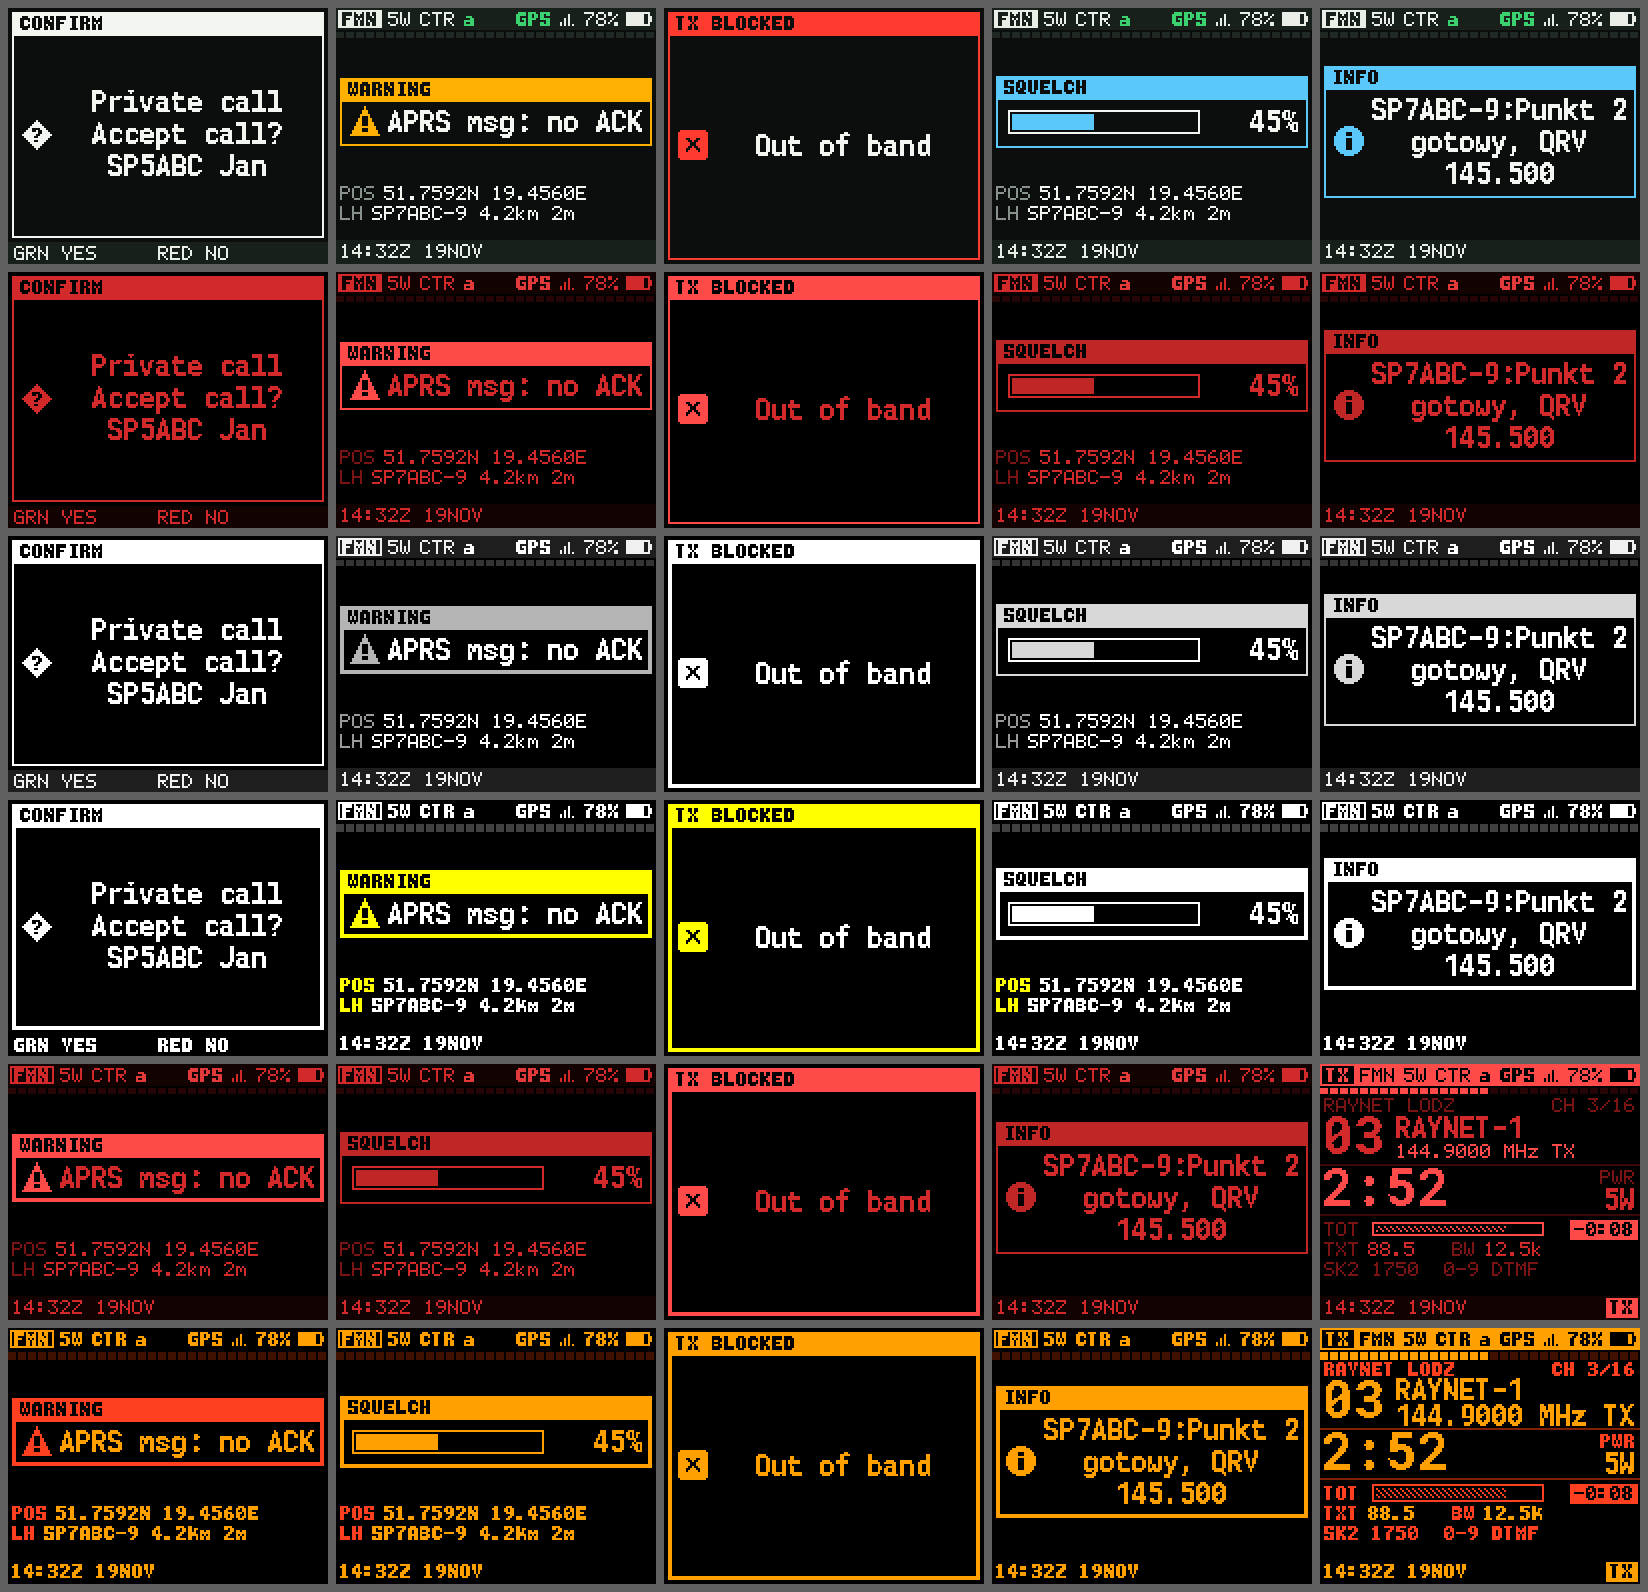
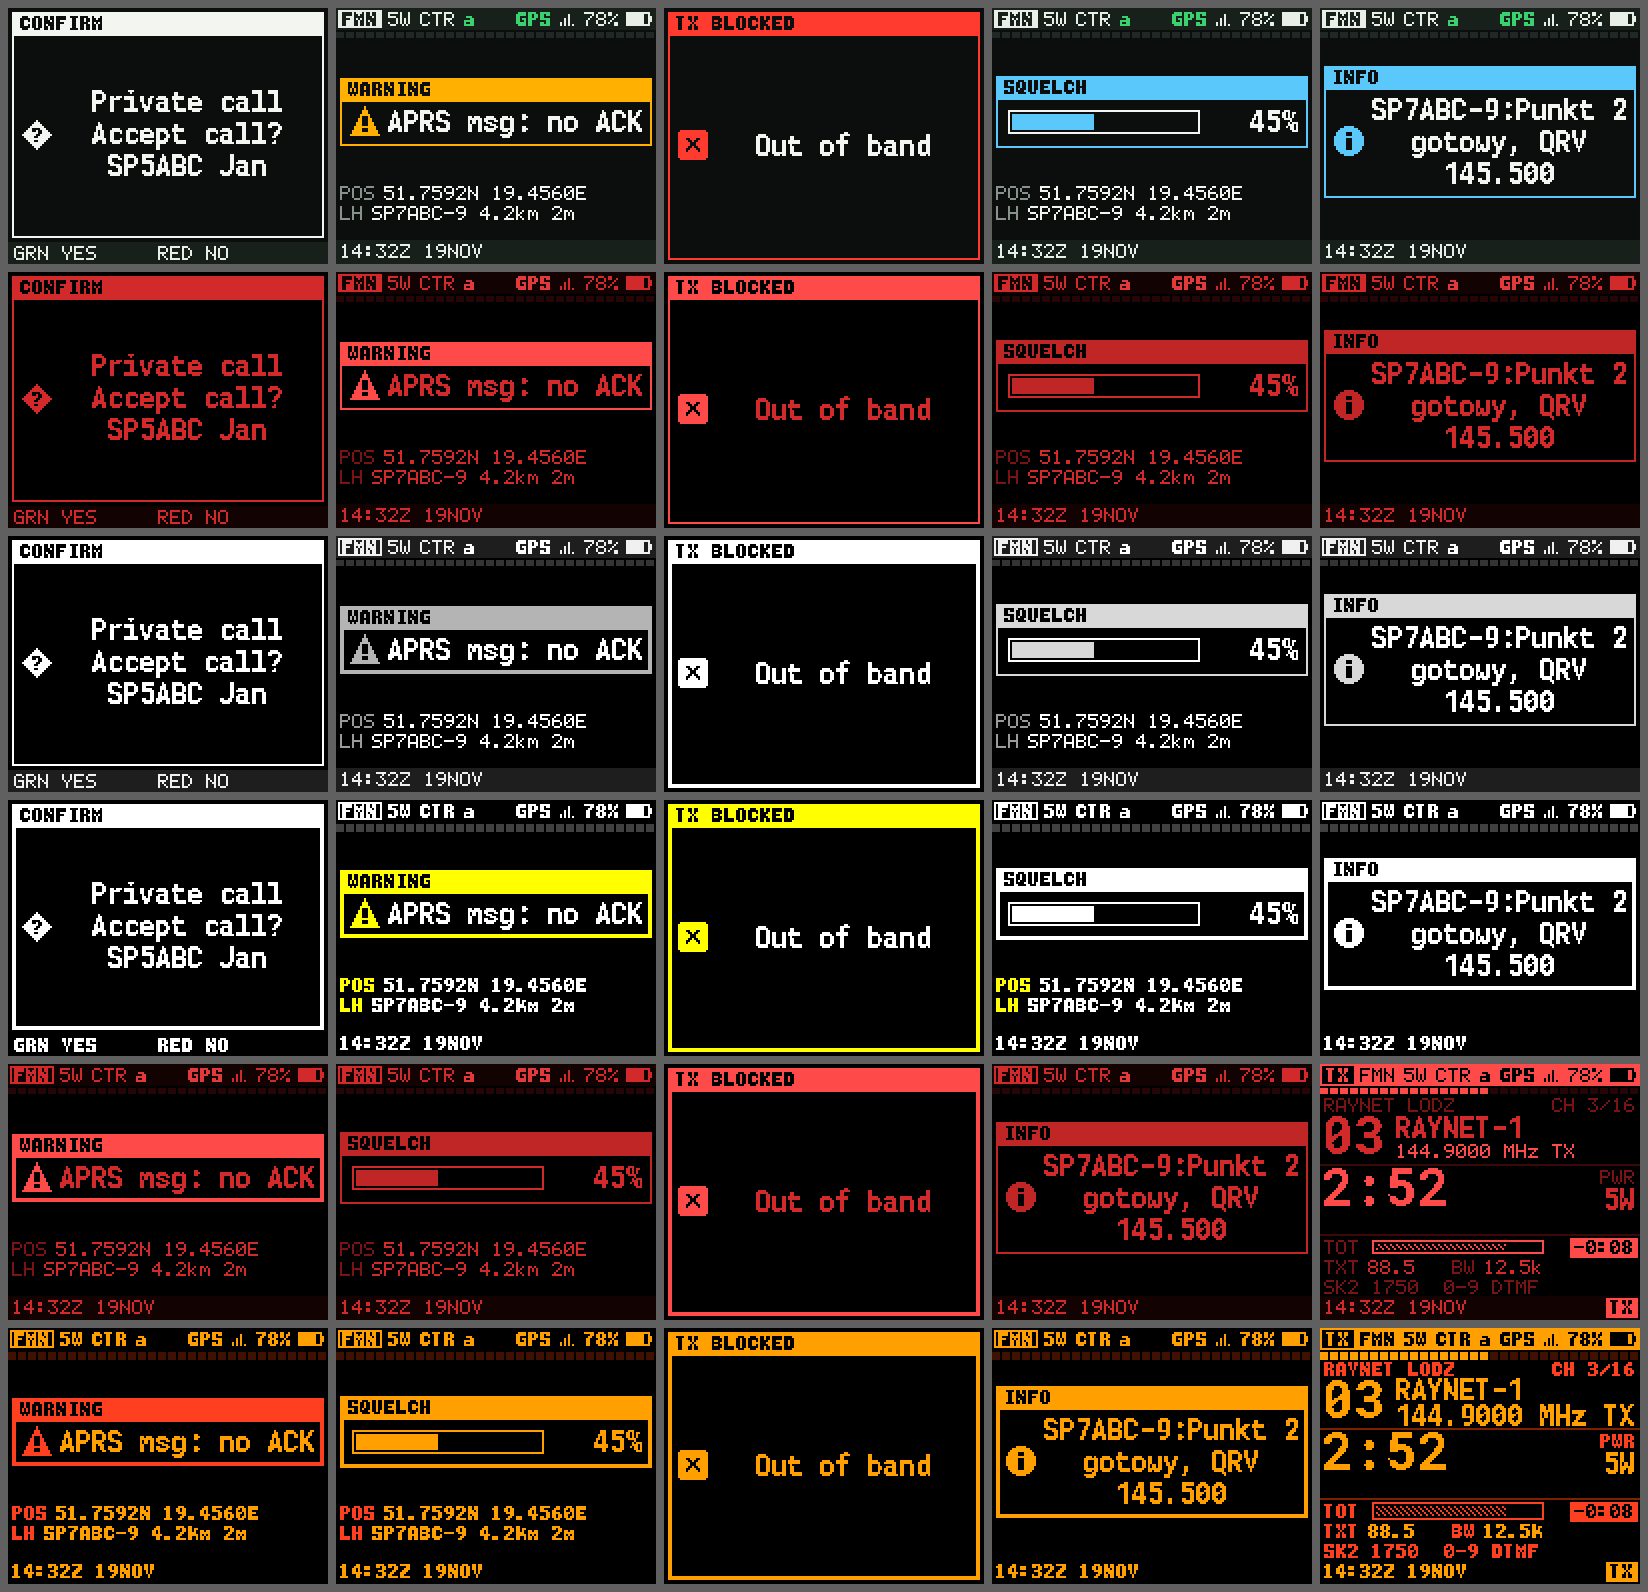
refactor: support expanded layout for TX screens in emcom ui

Changed region(s): [[0.8046, 0.9234, 1.0, 0.9849], [0.8046, 0.7387, 1.0, 0.8003]]

diff --git a/MDUV380_firmware/application/source/user_interface/uiEmcom.c b/MDUV380_firmware/application/source/user_interface/uiEmcom.c
@@ -9,8 +9,8 @@
  *   20..47  channel number (16x32) + name (8x16) + frequency, or VFO frequency
  *   50      divider
  *   54..73  panel: parameters, or RX level, DMR caller, TX timer
- *   54..84  expanded FM / DMR RX panel: caller ID or RX data plus distance
- *   75      divider (normal screens); 85 on the expanded RX panel
+ *   54..84  expanded FM / DMR RX / TX panel
+ *   75      divider (normal screens); 85 on expanded RX and TX panels
  *   79..106 EMCOM rows: APRS stations / messages / locator, position, last heard
  *   116..127 footer: UTC clock, lock / scan / SOS
  *
@@ -1089,12 +1089,12 @@ static void drawTxRows(int remaining)
 	int16_t barX = 26;
 	int16_t barW = 86;
 	int16_t barH = (pal->large ? 9 : 7);
-	int16_t barY = (EMCOM_Y1 - (pal->large ? 1 : 0));
+	int16_t barY = (RX_EMCOM_Y1 - (pal->large ? 1 : 0));
 
-	text(2, EMCOM_Y1, "TOT", FONT_SIZE_1, pal->mut, false);
+	text(2, RX_EMCOM_Y1, "TOT", FONT_SIZE_1, pal->mut, false);
 	if (remaining < 0)
 	{
-		text(barX, EMCOM_Y1, "off", FONT_SIZE_1, pal->mut, false);
+		text(barX, RX_EMCOM_Y1, "off", FONT_SIZE_1, pal->mut, false);
 	}
 	else
 	{
@@ -1121,16 +1121,16 @@ static void drawTxRows(int remaining)
 		{
 			if (pal->cues)
 			{
-				inverseChip((DISPLAY_SIZE_X - 1), EMCOM_Y1, buf, warnColour(), pal->bg, true);
+				inverseChip((DISPLAY_SIZE_X - 1), RX_EMCOM_Y1, buf, warnColour(), pal->bg, true);
 			}
 			else
 			{
-				text((DISPLAY_SIZE_X - 2), EMCOM_Y1, buf, FONT_SIZE_1_BOLD, warnColour(), true);
+				text((DISPLAY_SIZE_X - 2), RX_EMCOM_Y1, buf, FONT_SIZE_1_BOLD, warnColour(), true);
 			}
 		}
 		else
 		{
-			text((DISPLAY_SIZE_X - 2), EMCOM_Y1, buf, FONT_SIZE_1, pal->fg, true);
+			text((DISPLAY_SIZE_X - 2), RX_EMCOM_Y1, buf, FONT_SIZE_1, pal->fg, true);
 		}
 	}
 
@@ -1140,11 +1140,11 @@ static void drawTxRows(int remaining)
 		char contact[20];
 
 		snprintf(buf, sizeof(buf), "%u", (unsigned)(PCorTG & 0xFFFFFF));
-		keyValue(2, EMCOM_Y2, (((PCorTG >> 24) == PC_CALL_FLAG) ? "PC" : "TG"), buf, pal->fg);
+		keyValue(2, RX_EMCOM_Y2, (((PCorTG >> 24) == PC_CALL_FLAG) ? "PC" : "TG"), buf, pal->fg);
 		snprintf(buf, sizeof(buf), "%u", (unsigned)trxGetDMRColourCode());
-		keyValue(COL2_X, EMCOM_Y2, "CC", buf, pal->fg);
+		keyValue(COL2_X, RX_EMCOM_Y2, "CC", buf, pal->fg);
 		snprintf(buf, sizeof(buf), "%d", (trxGetDMRTimeSlot() + 1));
-		keyValue(COL3_X, EMCOM_Y2, "TS", buf, pal->fg);
+		keyValue(COL3_X, RX_EMCOM_Y2, "TS", buf, pal->fg);
 
 		codeplugUtilConvertBufToString(currentContactData.name, contact, 16);
 		if (nonVolatileSettings.overrideTG != 0)
@@ -1152,15 +1152,15 @@ static void drawTxRows(int remaining)
 			uiUtilityBuildTgOrPCDisplayName(contact, sizeof(contact));
 		}
 		contact[16] = 0;
-		text(2, EMCOM_Y3, contact, FONT_SIZE_1, pal->fg, false);
-		text((DISPLAY_SIZE_X - 2), EMCOM_Y3, "SK1 LH", FONT_SIZE_1, pal->mut, true);
+		text(2, RX_EMCOM_Y3, contact, FONT_SIZE_1, pal->fg, false);
+		text((DISPLAY_SIZE_X - 2), RX_EMCOM_Y3, "SK1 LH", FONT_SIZE_1, pal->mut, true);
 	}
 	else
 	{
 		toneString(currentChannelData->txTone, buf, sizeof(buf));
-		keyValue(2, EMCOM_Y2, "TXT", buf, ((currentChannelData->txTone != CODEPLUG_CSS_TONE_NONE) ? pal->fg : pal->mut));
-		keyValue(COL2_X, EMCOM_Y2, "BW", (trxGetBandwidthIs25kHz() ? "25k" : "12.5k"), pal->fg);
-		text(2, EMCOM_Y3, "SK2 1750  0-9 DTMF", FONT_SIZE_1, pal->mut, false);
+		keyValue(2, RX_EMCOM_Y2, "TXT", buf, ((currentChannelData->txTone != CODEPLUG_CSS_TONE_NONE) ? pal->fg : pal->mut));
+		keyValue(COL2_X, RX_EMCOM_Y2, "BW", (trxGetBandwidthIs25kHz() ? "25k" : "12.5k"), pal->fg);
+		text(2, RX_EMCOM_Y3, "SK2 1750  0-9 DTMF", FONT_SIZE_1, pal->mut, false);
 	}
 }
 
@@ -1491,7 +1491,7 @@ void emcomRenderMain(const emcomMainInfo_t *info)
 		int elapsed = ((remaining >= 0) ? ((int)(currentChannelData->tot * 15U) - t) : t);
 
 		drawTxPanel(info, elapsed);
-		divider(DIV2_Y);
+		divider(RX_DIV2_Y);
 		drawTxRows(remaining);
 	}
 	else if (info->showDetails)
@@ -1603,7 +1603,7 @@ void emcomDrawEmblem(int16_t cx, int16_t ty, themeItem_t waves, themeItem_t mast
 void emcomDrawTxBanner(const char *str)
 {
 	selectPalette();
-	fill(0, (DIV1_Y + 1), DISPLAY_SIZE_X, ((DIV2_Y - DIV1_Y) - 1), pal->tx);
+	fill(0, (DIV1_Y + 1), DISPLAY_SIZE_X, ((RX_DIV2_Y - DIV1_Y) - 1), pal->tx);
 	textRaw((int16_t)((DISPLAY_SIZE_X - (int16_t)(strlen(str) * 16)) / 2), TX_TIMER_Y, str, FONT_SIZE_4, pal->txFg, false);
 	displayThemeResetToDefault();
 }
@@ -1675,7 +1675,8 @@ static int16_t alertBand(int16_t h)
 {
 	static const uint8_t mainRows[] = { 12, 17, DIV1_Y, DIV2_Y, (EMCOM_Y2 - 1), (EMCOM_Y3 - 1), (EMCOM_Y3 + 9), FOOTER_Y };
 	static const uint8_t rxRows[] = { 12, 17, DIV1_Y, RX_DIV2_Y, (RX_EMCOM_Y2 - 1), (RX_EMCOM_Y3 - 1), FOOTER_Y };
-	bool expandedLayout = (expandedRxLayoutActive() || standbyDistanceLayoutActive(NULL));
+	bool expandedLayout = (expandedRxLayoutActive() || standbyDistanceLayoutActive(NULL) ||
+			((currentState() == ST_TX) && (DISPLAY_SIZE_Y >= 128)));
 	const uint8_t *rows = (expandedLayout ? rxRows : mainRows);
 	size_t rowCount = (expandedLayout ? (sizeof(rxRows) / sizeof(rxRows[0])) : (sizeof(mainRows) / sizeof(mainRows[0])));
 	int16_t y = (int16_t)((DISPLAY_SIZE_Y - h) / 2);

diff --git a/docs/screens/render_refresh.py b/docs/screens/render_refresh.py
@@ -63,9 +63,9 @@ def tx_screen(P, elapsed=12, total=180, digital=False, pwr='5W'):
     s.text(1, 46, mmss(elapsed), 4 if elapsed < 3600 else 3, P['tx'])
     s.text(W - 2, R.PANEL_Y1 - 1, 'PWR', f1(P), P['mut'], True)
     s.text(W - 2, R.PANEL_Y1 + 6, pwr, 3, P['fg'], True)
-    s.fill(0, R.DIV2_Y, W, 1, P['line'])
+    s.fill(0, R.RX_DIV2_Y, W, 1, P['line'])
     # TOT bar
-    y1, y2, y3 = R.EMCOM_Y1, R.EMCOM_Y2, R.EMCOM_Y3
+    y1, y2, y3 = R.RX_EMCOM_Y1, R.RX_EMCOM_Y2, R.RX_EMCOM_Y3
     s.text(2, y1, 'TOT', f1(P), P['mut'])
     bx, bw = 26, 86
     bh = 9 if P.get('large') else 7
@@ -104,7 +104,7 @@ def tx_screen(P, elapsed=12, total=180, digital=False, pwr='5W'):
 
 def aprs_tx_banner(P):
     s = tx_screen(P)
-    s.fill(0, R.DIV1_Y + 1, W, R.DIV2_Y - R.DIV1_Y - 1, P['tx'])
+    s.fill(0, R.DIV1_Y + 1, W, R.RX_DIV2_Y - R.DIV1_Y - 1, P['tx'])
     t = 'APRS Tx'
     s.text((W - len(t) * 16) // 2, 46, t, 4, P['txFg'])
     return s
